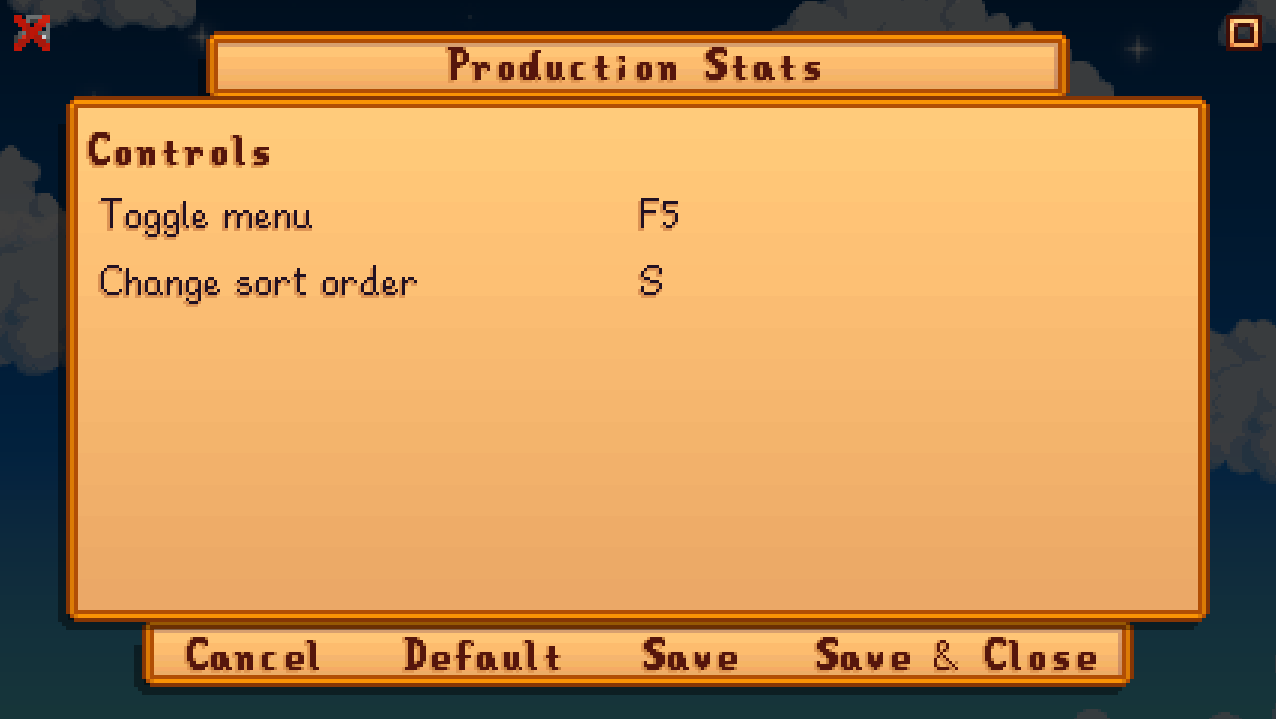
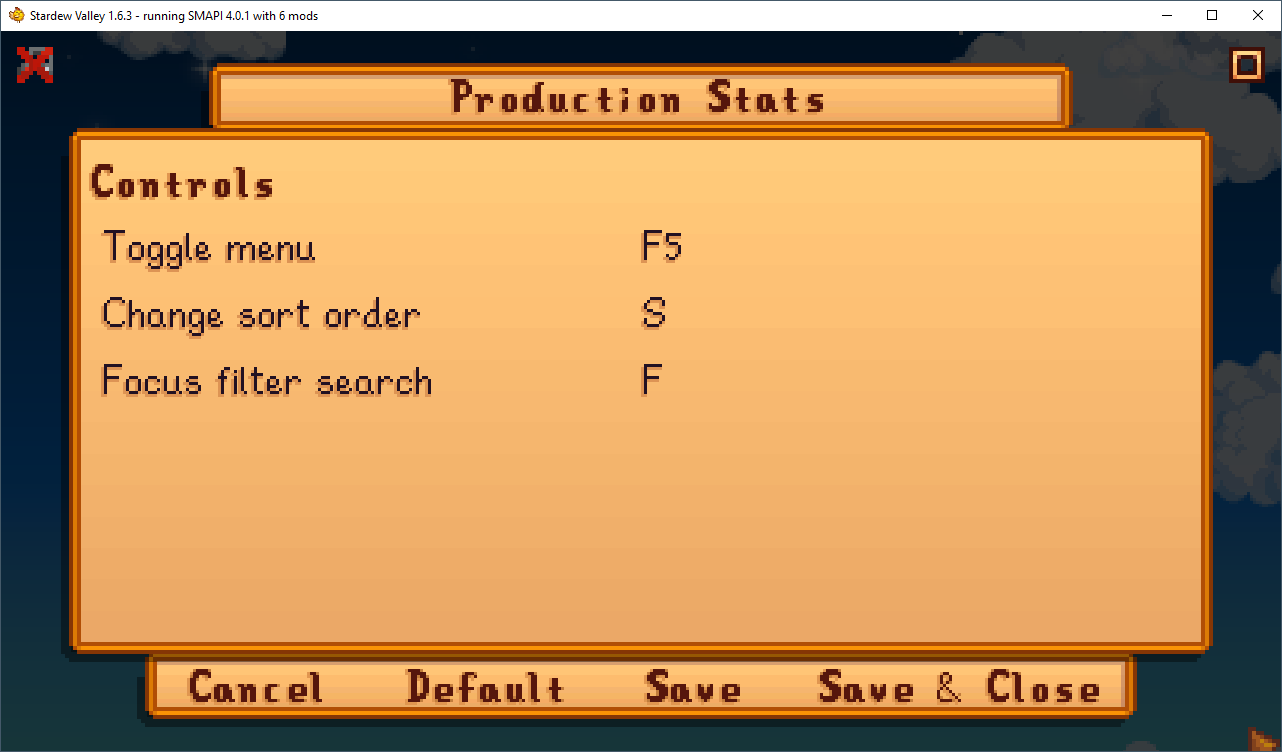
docs: Update readme.

diff --git a/readme.md b/readme.md
@@ -12,9 +12,15 @@ This mod allows you to lookup how much items you have across various of storages
 
 # Usage
 
-By defualt, to display items you have to press `F5` key once. To hide the menu, press `F5` once more.
+By default, to display items you have to press `F5` key once. To hide the menu, press `F5` or `Escape`.
 
 Number of items is always refreshed when you enter the menu.
+
+## Filtering
+
+You can filter items are shown by clicking on search text box and filtering them by name. You can also press `f` to focus on search text box.
+
+![Filtering](/imgs/filtering.gif)
 
 ## Sorting
 
